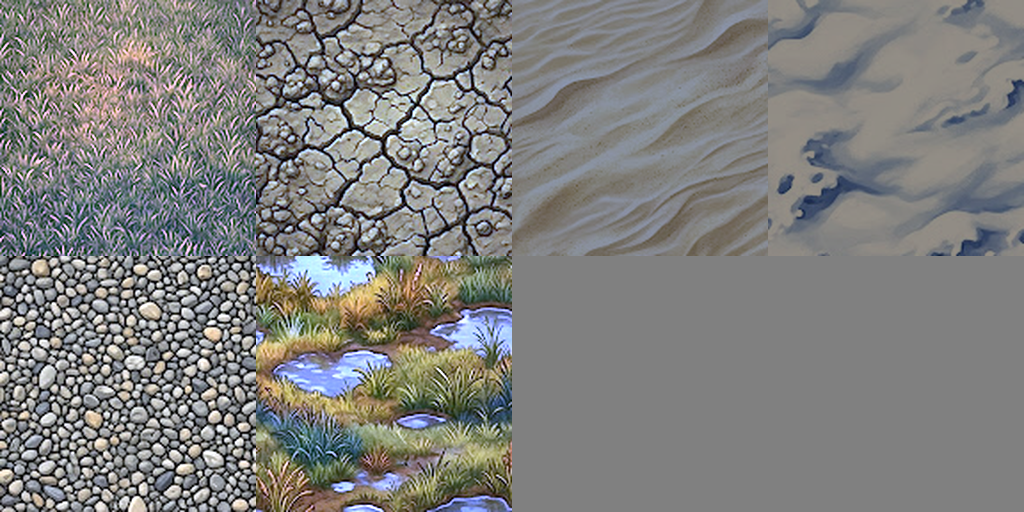
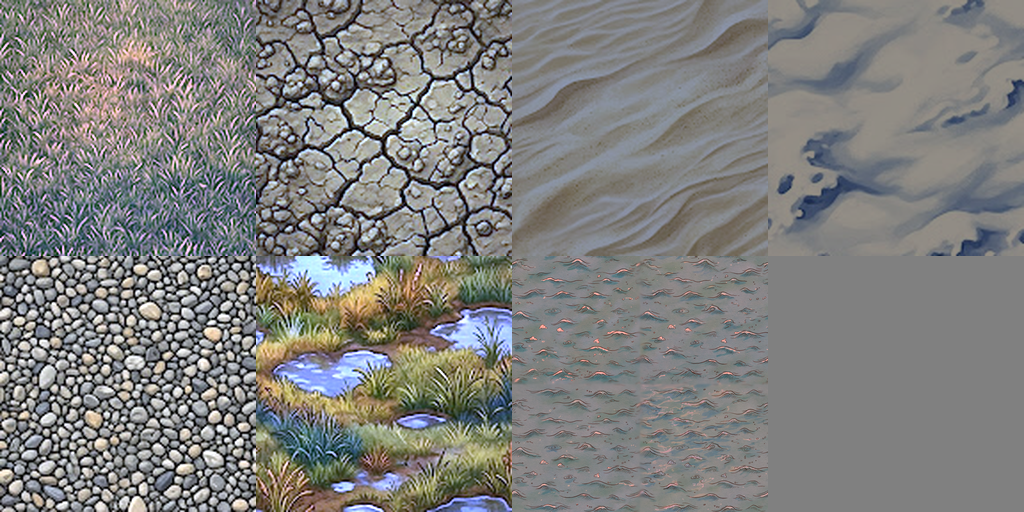
sekai-hex v0.71: 海に水面の質感(MUSE作の浅い海タイル)を貼る
Claude-Session: https://claude.ai/code/session_01NNF75WtqSrNc5QxPaYtfZJ

Changed region(s): [[0.5, 0.5, 0.75, 1.0]]

diff --git a/docs/apps/sekai-hex/view.js b/docs/apps/sekai-hex/view.js
@@ -38,7 +38,7 @@ void main(){
     else if(id>2.5&&id<3.5){ float yy=w.y*1.4; float row=fract(yy); float seg=fract(w.x*0.6+floor(yy)*0.37); float l=smoothstep(0.0,0.06,row)*(1.0-smoothstep(0.1,0.16,row))*step(seg,0.55); c=mix(c,c*vec3(0.6,0.8,0.95),l*0.6); }
     else if(id>3.5&&id<4.5){ float s2=fract(w.x*0.9); float l=smoothstep(0.35,0.4,s2)*(1.0-smoothstep(0.5,0.55,s2)); c*=1.0-0.1*l; }
   }
-  if(id>4.5&&id<10.5&&uTexOn>0.5){ float tk=id-5.0; vec2 m1=(vP.xy+uPh)/(uPer*30.0); vec2 m2=(vP.xy+uPh)/(uPer*47.0)+vec2(0.37,0.61);
+  if(id>4.5&&id<11.5&&uTexOn>0.5){ float tk=id-5.0; vec2 m1=(vP.xy+uPh)/(uPer*30.0); vec2 m2=(vP.xy+uPh)/(uPer*47.0)+vec2(0.37,0.61);
     vec2 f1=clamp(fract(m1),0.004,0.996); vec2 f2=clamp(fract(m2),0.004,0.996); vec2 b=vec2(mod(tk,4.0),floor(tk/4.0));
     vec3 t1=texture2D(uTex,vec2((b.x+f1.x)*0.25,(b.y+f1.y)*0.5)).rgb*2.0; vec3 t2=texture2D(uTex,vec2((b.x+f2.x)*0.25,(b.y+f2.y)*0.5)).rgb*2.0;
     vec3 tx=(t1+t2)*0.5; c=clamp(c*mix(vec3(1.0),tx,0.5),0.0,1.0); }
@@ -298,7 +298,7 @@ void main(){
         const shade = h > 0 ? Math.min(1.25, Math.max(0.5, 0.58 + 0.62 * nd + curv)) : 1.0;
         const pk = PK; COL[i * 3] = col[0]; COL[i * 3 + 1] = col[1]; COL[i * 3 + 2] = col[2]; SHD[i] = shade;
         if (pass === 1) continue;
-        let pid = h > 0 ? pk : 1;
+        let pid = h > 0 ? pk : (h > -6000 ? 11 : 1);
         if (h > 0 && pk !== 4) { // 地表の写真風テクスチャ 0草 1ひび割れ 2砂 3雪 4礫 5湿地
           const bb = bs[i]; let tk = 0;
           if (Math.min(col[0], col[1], col[2]) > 205 || bb === 1) tk = 3; else if (pk === 3) tk = 5; else if (pk === 2 || bb === 5) tk = (slope > 0.12 ? 4 : 2);

diff --git a/docs/apps/sekai-hex/index.html b/docs/apps/sekai-hex/index.html
@@ -71,13 +71,13 @@ button:active{background:var(--accent);color:#fff}
   <canvas id="mini" aria-label="世界の小さな地図" style="position:absolute;inset:auto;left:auto;bottom:auto;right:8px;top:8px;width:120px;height:64px;border:1px solid var(--border);border-radius:8px;background:var(--hud)"></canvas>
   <div id="err" hidden></div>
 </main>
-<script>window.APP_VER='0.70';</script>
-<script src="world.js?v=0.70"></script>
-<script src="transport.js?v=0.70"></script>
-<script src="realm.js?v=0.70"></script>
-<script src="sekai.js?v=0.70"></script>
-<script src="sprites.js?v=0.70"></script>
-<script src="view.js?v=0.70"></script>
+<script>window.APP_VER='0.71';</script>
+<script src="world.js?v=0.71"></script>
+<script src="transport.js?v=0.71"></script>
+<script src="realm.js?v=0.71"></script>
+<script src="sekai.js?v=0.71"></script>
+<script src="sprites.js?v=0.71"></script>
+<script src="view.js?v=0.71"></script>
 <script>
 (function(){
   'use strict';
